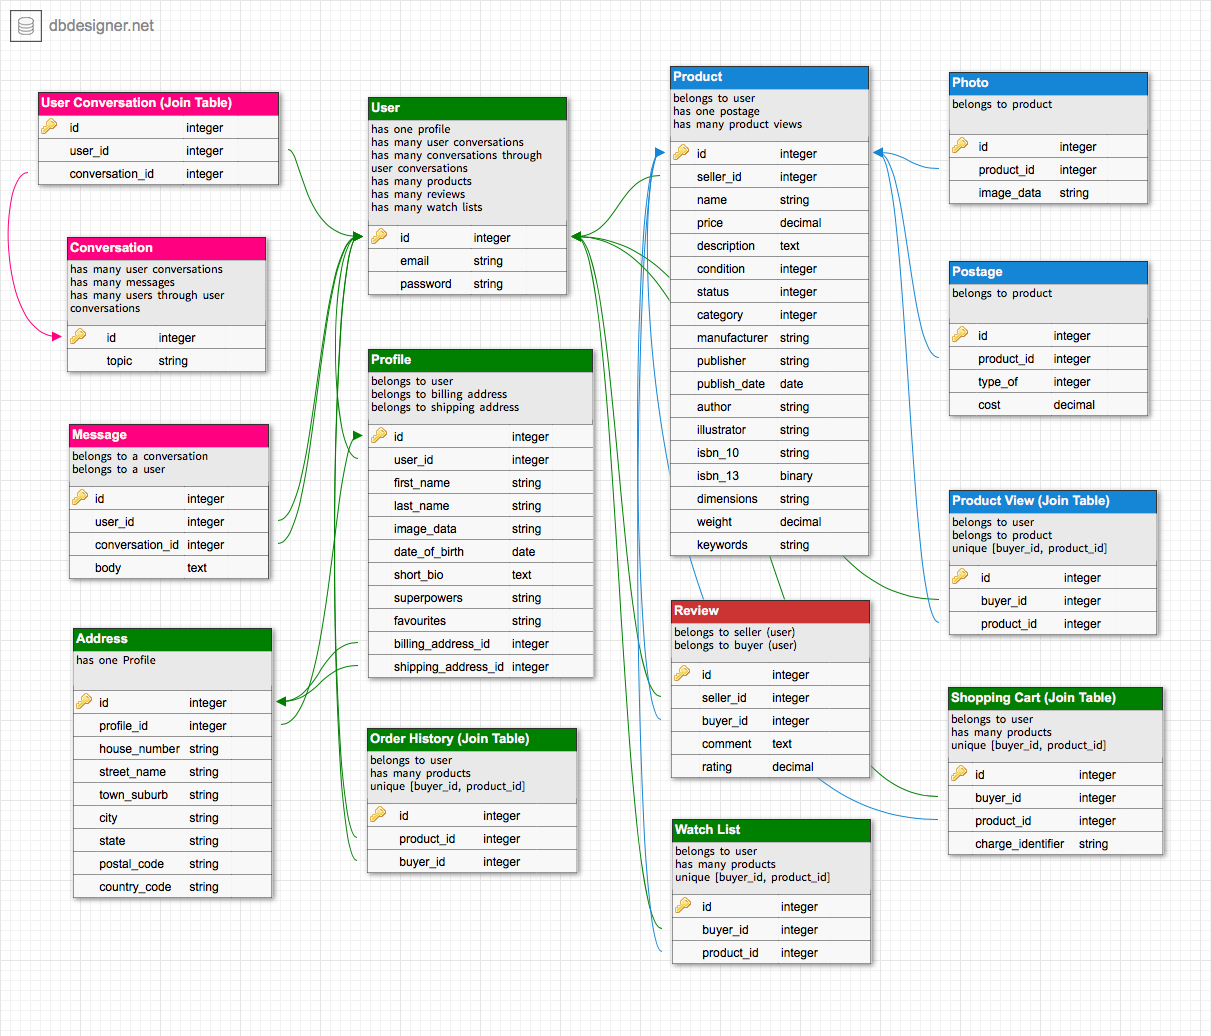
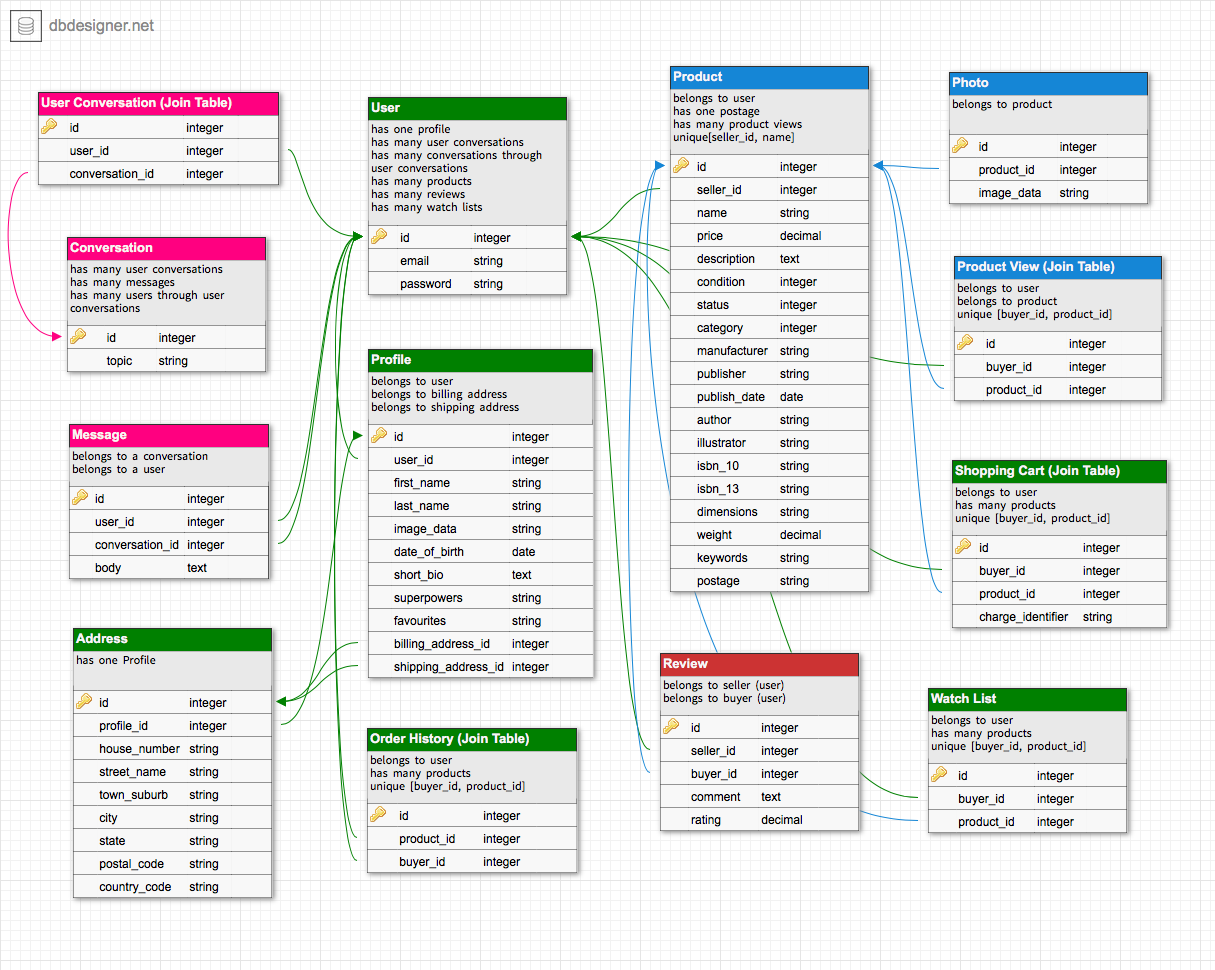
Add postage attribute to Product model

diff --git a/spec/models/product_spec.rb b/spec/models/product_spec.rb
@@ -47,19 +47,21 @@ RSpec.describe Product, type: :model do
       # @shipping_address = Address.new(house_number: '8', street_name: 'Auburn')
       # @profile = Profile.create!(user: @user, first_name: 'Glenn', last_name: 'Dimaliwat', billing_address: @billing_address, shipping_address: @shipping_address)
 
-      @product1 = Product.new(seller: @user, name: 'Batman', price: 100, description: 'Test Product', condition: 'Mint', category: 'Comic Books & Graphic Novels', status: 'Available')
+      @product1 = Product.new(seller: @user, name: 'Batman', price: 100, description: 'Test Product', condition: 'Mint', category: 'Comic Books & Graphic Novels', status: 'Available', postage: 'None/Pickup Only')
       @product1.save
-      @product2 = Product.new(seller: @user, name: 'Batman', price: 200, description: 'Test Product 2', condition: 'Mint', category: 'Comic Books & Graphic Novels', status: 'Available')
-      @product3 = Product.new(seller: @user, name: 'Spiderman', price: -10, description: 'Test Product 2', condition: 'Mint', category: 'Comic Books & Graphic Novels', status: 'Available')
-      @product4 = Product.new(seller: @user, name: 'Flash', price: 10, description: '', condition: 'Mint', category: 'Comic Books & Graphic Novels', status: 'Available')
-      @product5 = Product.new(seller: @user, name: 'Iron Man', price: 10, description: 'TEst Product', condition: '', category: 'Comic Books & Graphic Novels', status: 'Available')
-      @product6 = Product.new(seller: @user, name: 'Captain America', price: 10, description: 'TEst Product', condition: 'Mint', category: 'Comic Books & Graphic Novels', status: '')
-      @product7 = Product.new(seller: @user, name: 'Captain America', price: 10, description: 'TEst Product', condition: 'Mint', category: '', status: 'Sold')
-      @product8 = Product.new(name: 'Captain America', price: 10, description: 'TEst Product', condition: 'Mint', category: 'Comic Books & Graphic Novels', status: 'Sold')
-      @product9 = Product.new(seller: @user, name: '', price: 10, description: 'TEst Product', condition: 'Mint', category: 'Comic Books & Graphic Novels', status: 'Sold')
-      @product10 = Product.new(seller: @user, name: 'Starlord', price: 10, description: 'TEst Product', condition: 'Mmmint', category: 'Comic Books & Graphic Novels', status: 'Sold')
-      @product11 = Product.new(seller: @user, name: 'Starlord', price: 10, description: 'TEst Product', condition: 'Mint', category: 'Comic Books & Graphic Novels', status: 'Avai')
-      @product12 = Product.new(seller: @user, name: 'Starlord', price: 10, description: 'TEst Product', condition: 'Mint', category: 'Comic Con', status: 'Sold')
+      @product2 = Product.new(seller: @user, name: 'Batman', price: 200, description: 'Test Product 2', condition: 'Mint', category: 'Comic Books & Graphic Novels', status: 'Available', postage: 'None/Pickup Only')
+      @product3 = Product.new(seller: @user, name: 'Spiderman', price: -10, description: 'Test Product 2', condition: 'Mint', category: 'Comic Books & Graphic Novels', status: 'Available', postage: 'None/Pickup Only')
+      @product4 = Product.new(seller: @user, name: 'Flash', price: 10, description: '', condition: 'Mint', category: 'Comic Books & Graphic Novels', status: 'Available', postage: 'None/Pickup Only')
+      @product5 = Product.new(seller: @user, name: 'Iron Man', price: 10, description: 'TEst Product', condition: '', category: 'Comic Books & Graphic Novels', status: 'Available', postage: 'None/Pickup Only')
+      @product6 = Product.new(seller: @user, name: 'Captain America', price: 10, description: 'TEst Product', condition: 'Mint', category: 'Comic Books & Graphic Novels', status: '', postage: 'None/Pickup Only')
+      @product7 = Product.new(seller: @user, name: 'Captain America', price: 10, description: 'TEst Product', condition: 'Mint', category: '', status: 'Sold', postage: 'None/Pickup Only')
+      @product8 = Product.new(name: 'Captain America', price: 10, description: 'TEst Product', condition: 'Mint', category: 'Comic Books & Graphic Novels', status: 'Sold', postage: 'None/Pickup Only')
+      @product9 = Product.new(seller: @user, name: '', price: 10, description: 'TEst Product', condition: 'Mint', category: 'Comic Books & Graphic Novels', status: 'Sold', postage: 'None/Pickup Only')
+      @product10 = Product.new(seller: @user, name: 'Starlord', price: 10, description: 'TEst Product', condition: 'Mmmint', category: 'Comic Books & Graphic Novels', status: 'Sold', postage: 'None/Pickup Only')
+      @product11 = Product.new(seller: @user, name: 'Starlord', price: 10, description: 'TEst Product', condition: 'Mint', category: 'Comic Books & Graphic Novels', status: 'Avai', postage: 'None/Pickup Only')
+      @product12 = Product.new(seller: @user, name: 'Starlord', price: 10, description: 'TEst Product', condition: 'Mint', category: 'Comic Con', status: 'Sold', postage: 'None/Pickup Only')
+      @product13 = Product.new(seller: @user, name: 'Aquaman', price: 100, description: 'Test Product', condition: 'Mint', category: 'Comic Books & Graphic Novels', status: 'Available')
+      @product14 = Product.new(seller: @user, name: 'Aquaman', price: 100, description: 'Test Product', condition: 'Mint', category: 'Comic Books & Graphic Novels', status: 'Available', postage: 'Non')
     end
 
     it 'will allow to save products when all required fields are filled up' do
@@ -103,11 +105,19 @@ RSpec.describe Product, type: :model do
     end
 
     it 'will only allow product statuses that are part of enum status types' do
-      expect(Product.status_types.include?(@product11.condition)).to be false
+      expect(Product.status_types.include?(@product11.status)).to be false
     end
 
     it 'will only allow product categories that are part of enum category types' do
-      expect(Product.category_types.include?(@product12.condition)).to be false
+      expect(Product.category_types.include?(@product12.category)).to be false
+    end
+
+    it 'will not allow empty product postage' do
+      expect(@product13).to be_invalid
+    end
+
+    it 'will only allow product postages that are part of enum postage types' do
+      expect(Product.postage_types.include?(@product14.postage)).to be false
     end
   end
 

diff --git a/spec/models/photo_spec.rb b/spec/models/photo_spec.rb
@@ -4,7 +4,7 @@ RSpec.describe Photo, type: :model do
   context 'when creating a new photo' do
     before do
       @user = User.create!(email: 'glenn@example.com', password: 'password')
-      @product = Product.create!(seller: @user, name: 'Batman', price: 100, description: 'Test Product', condition: 'Mint', category: 'Comic Books & Graphic Novels', status: 'Available')
+      @product = Product.create!(seller: @user, name: 'Batman', price: 100, description: 'Test Product', condition: 'Mint', category: 'Comic Books & Graphic Novels', status: 'Available', postage: 'None/Pickup Only')
       @photo1 = Photo.new(image_data: 'image.jpg')
       @photo2 = Photo.new(product: @product)
       @photo3 = Photo.new(product: @product, image_data: 'image.jpg')

diff --git a/db/schema.rb b/db/schema.rb
@@ -10,7 +10,7 @@
 #
 # It's strongly recommended that you check this file into your version control system.
 
-ActiveRecord::Schema.define(version: 20171101231449) do
+ActiveRecord::Schema.define(version: 20171102020708) do
 
   # These are extensions that must be enabled in order to support this database
   enable_extension "plpgsql"
@@ -55,6 +55,7 @@ ActiveRecord::Schema.define(version: 20171101231449) do
     t.string "keywords"
     t.datetime "created_at", null: false
     t.datetime "updated_at", null: false
+    t.string "postage"
     t.index ["seller_id", "name"], name: "index_products_on_seller_id_and_name", unique: true
     t.index ["seller_id"], name: "index_products_on_seller_id"
   end

diff --git a/app/models/product.rb b/app/models/product.rb
@@ -33,6 +33,7 @@ class Product < ApplicationRecord
   enum category_types: ['Comic Books & Graphic Novels', 'Toys & Collectables', 'Costumes', 'Clothing & Apparel']
   enum condition_types: ['Brand New', 'Mint', 'Good', 'Fair', 'Poor']
   enum status_types: ['Available', 'Sold']
+  enum postage_types: ['None/Pickup Only', 'By Weight']
 
   validates :seller_id, uniqueness: { scope: :name, message: 'Product name already exists' }
   validates :price, numericality: { greater_than_or_equal_to: 0 }
@@ -41,5 +42,5 @@ class Product < ApplicationRecord
   validates :status, presence: true
   validates :category, presence: true
   validates :name, presence: true
-
+  validates :postage, presence: true
 end

diff --git a/app/controllers/products_controller.rb b/app/controllers/products_controller.rb
@@ -87,6 +87,6 @@ class ProductsController < ApplicationController
 
     # Never trust parameters from the scary internet, only allow the white list through.
     def product_params
-      params.require(:product).permit(:seller_id, :name, :price, :description, :condition, :status, :category, :manufacturer, :publisher, :publish_date, :author, :illustrator, :isbn_10, :isbn_13, :dimensions, :weight, :keywords)
+      params.require(:product).permit(:seller_id, :name, :price, :description, :condition, :status, :category, :manufacturer, :publisher, :publish_date, :author, :illustrator, :isbn_10, :isbn_13, :dimensions, :weight, :keywords, :postage)
     end
 end

diff --git a/db/migrate/20171102020708_add_postage_to_product.rb b/db/migrate/20171102020708_add_postage_to_product.rb
@@ -1,0 +1,5 @@
+class AddPostageToProduct < ActiveRecord::Migration[5.1]
+  def change
+    add_column :products, :postage, :string
+  end
+end
